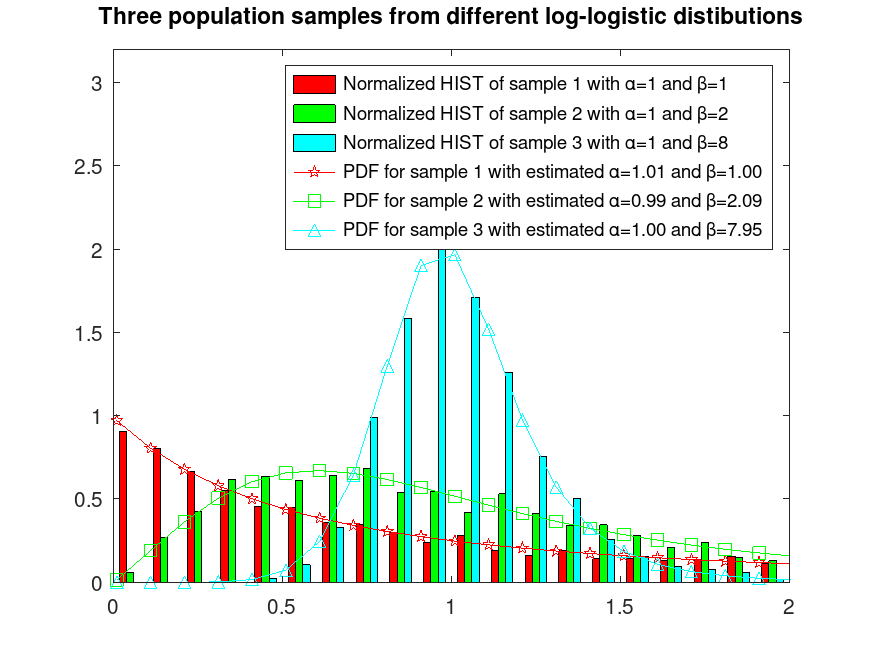
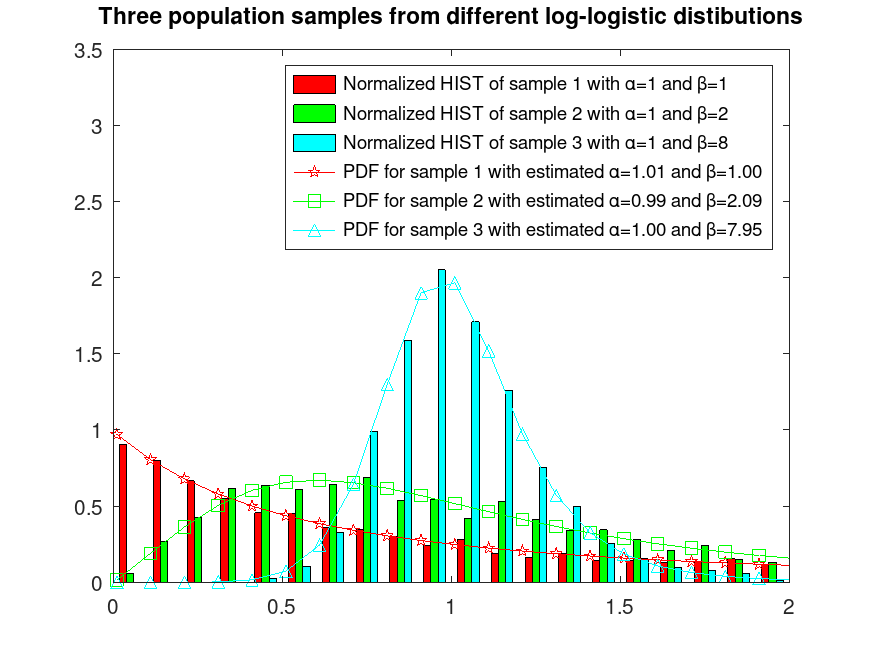
update documentation

diff --git a/docs/loglfit.html b/docs/loglfit.html
@@ -123,10 +123,10 @@
  <a href="https://en.wikipedia.org/wiki/Log-logistic_distribution">https://en.wikipedia.org/wiki/Log-logistic_distribution</a>
 </p>
 <p> <strong>See also: </strong>
-  <a href="logicdf.html">logicdf</a>, 
-  <a href="logiinv.html">logiinv</a>, 
-  <a href="logipdf.html">logipdf</a>, 
-  <a href="logirnd.html">logirnd</a>, 
+  <a href="loglcdf.html">loglcdf</a>, 
+  <a href="loglinv.html">loglinv</a>, 
+  <a href="loglpdf.html">loglpdf</a>, 
+  <a href="loglrnd.html">loglrnd</a>, 
   <a href="logllike.html">logllike</a>
 </p>
 <p><strong>Source Code: </strong>
@@ -165,7 +165,7 @@
  set (h(1), "facecolor", "c");
  set (h(2), "facecolor", "g");
  set (h(3), "facecolor", "r");
- ylim ([0, 3.2]);
+ ylim ([0, 3.5]);
  xlim ([0, 2.0]);
  hold on
 
